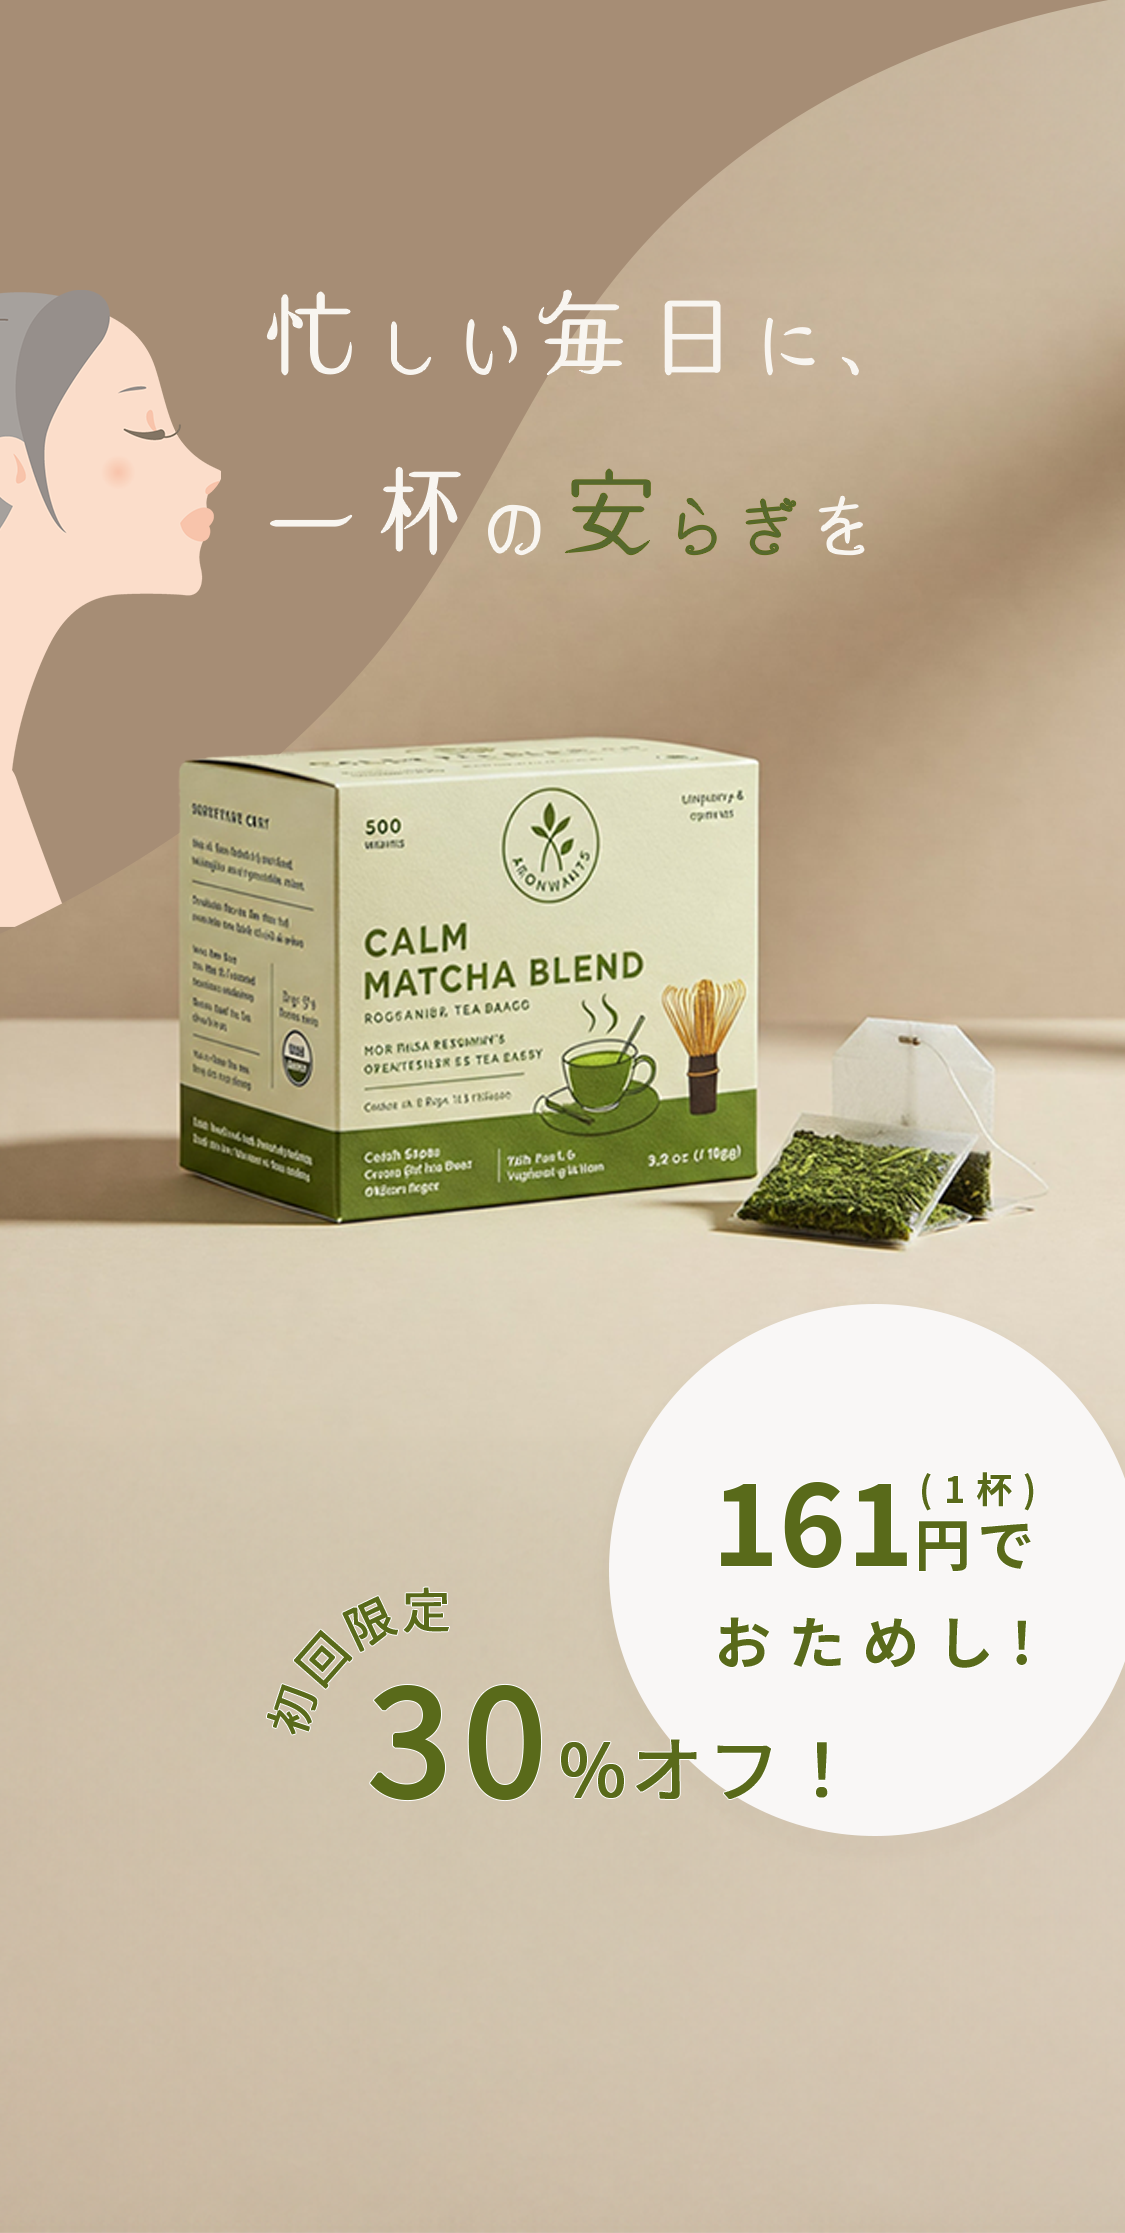
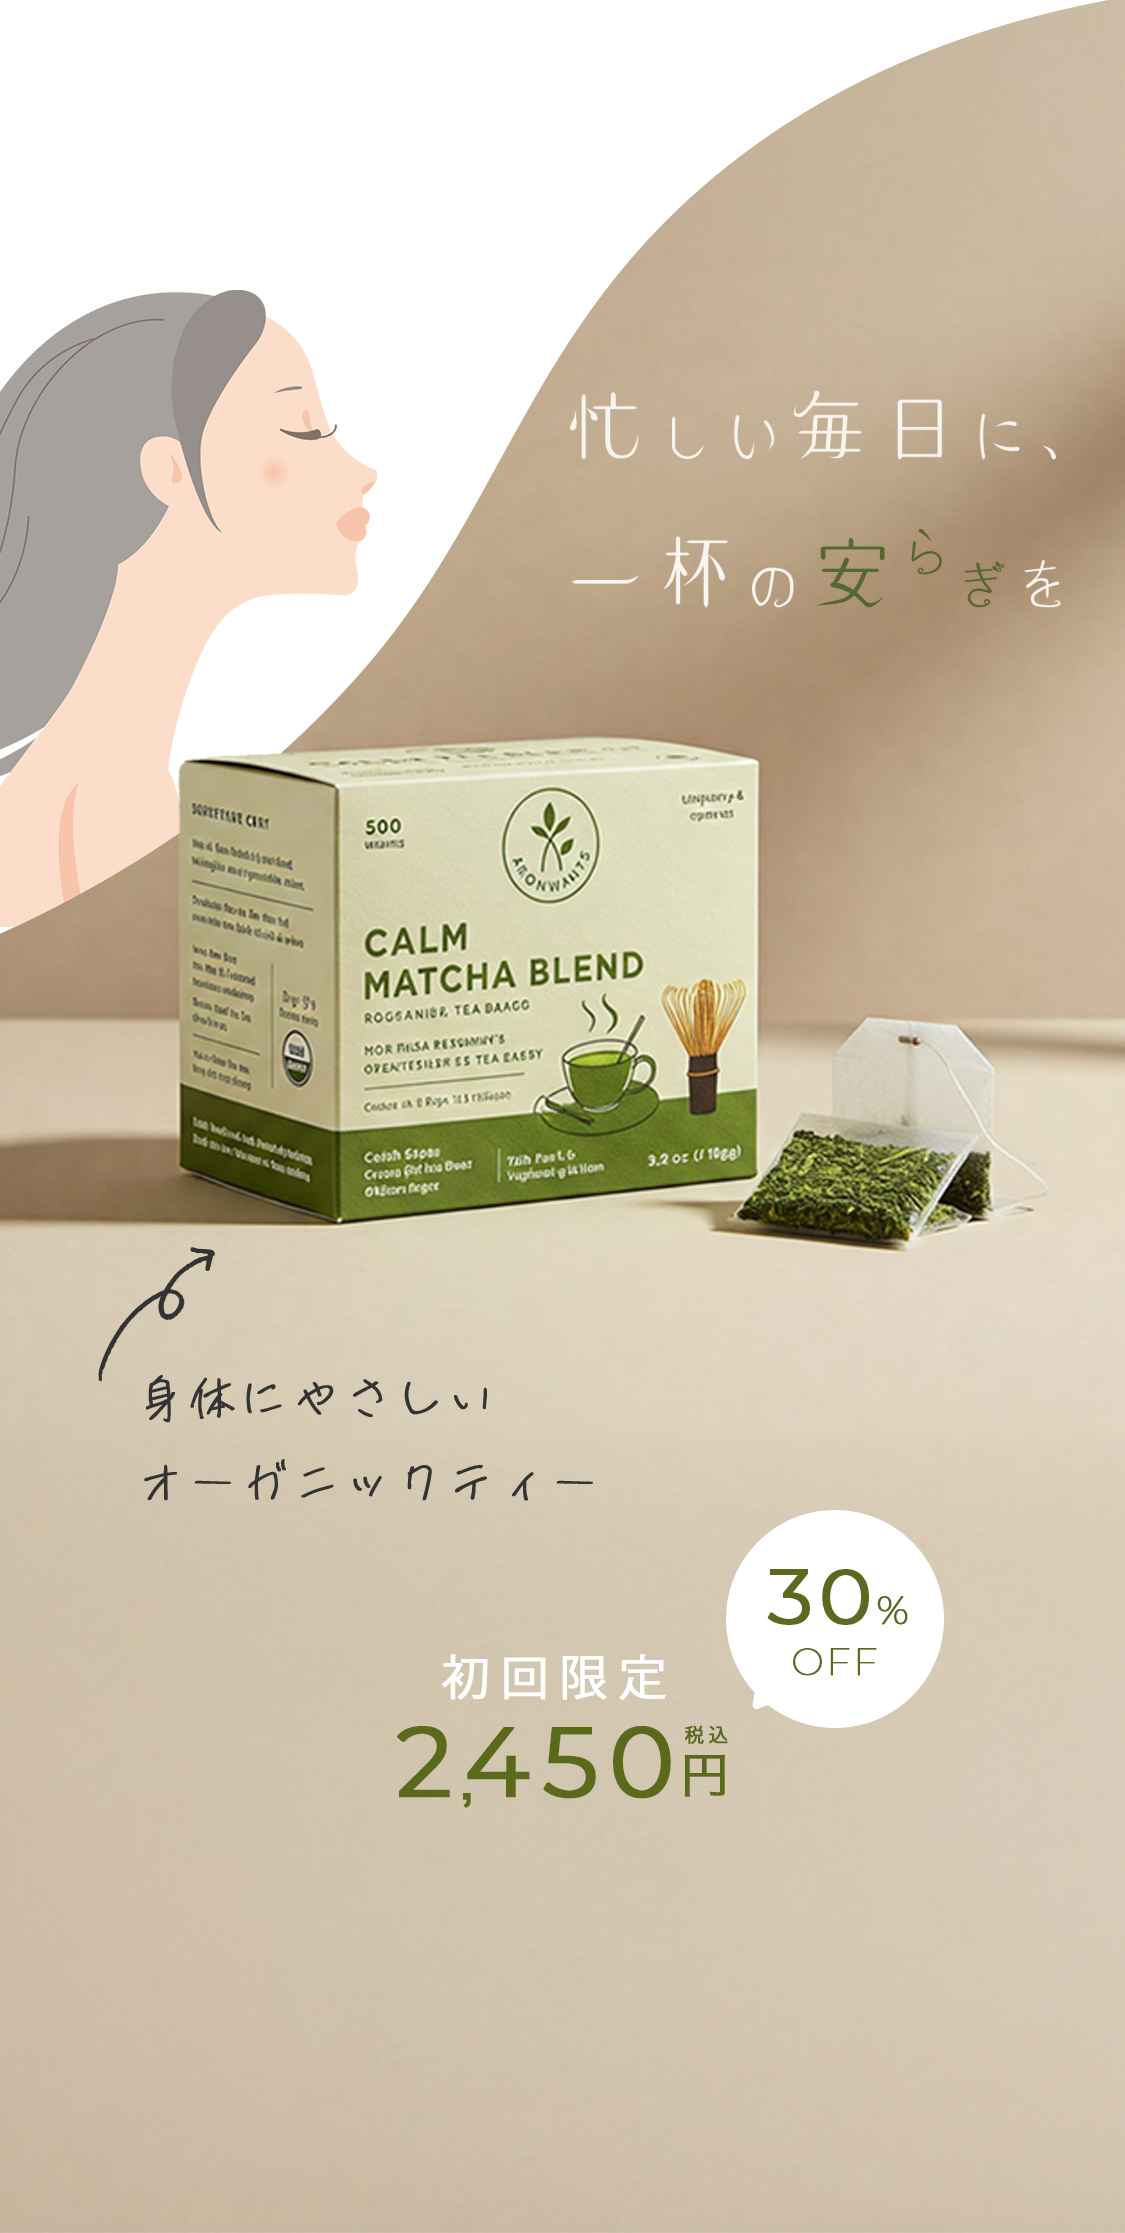
add comment

diff --git a/css/style.css b/css/style.css
@@ -8,7 +8,7 @@
       --sub-color : #a68d75;
       --dark-main-color : #333; /*rgba(51, 51, 51, 0)*/
       --text-bright-color : #d4cab3; 
-      --base-color:#f8f5f0;/*rgba(248, 245, 240, 0)*/
+      --base-color:#fff;/*rgba(248, 245, 240, 0)*/
       --icon-color : #a68d75;
       --icon-bk-color : #fff;
       --large-width:1000px;
